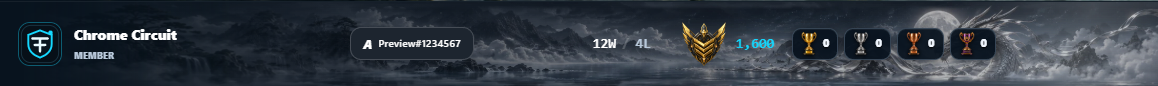
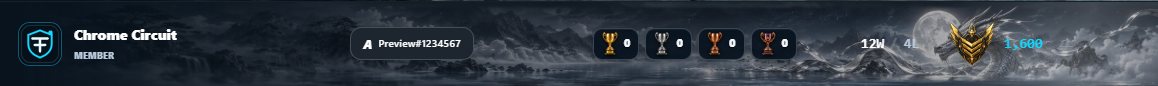
rwee
rwer

Changed region(s): [[0.4974, 0.2791, 0.9016, 0.7442]]

diff --git a/src/components/match/MatchTeamTable.jsx b/src/components/match/MatchTeamTable.jsx
@@ -136,7 +136,7 @@ export default function MatchTeamTable({ label, name, color = "cyan", teamIcon =
         {isComplete && name ? <div className="match-team-score min-w-28 shrink-0 rounded-xl border border-white/[0.08] bg-black/20 px-5 py-2.5 text-center"><p className="text-[8px] font-black uppercase tracking-[0.16em] text-vapor">Final score</p><p className={`mt-1 font-mono text-2xl font-black tabular-nums ${toneClass}`}>{finalScore ?? 0}</p></div> : null}
       </header>
 
-      {community ? players.length ? <CommunityMatchRoster players={players} color={color} voiceStates={voiceStates} waitingRoomUrl={waitingRoomUrl} /> : <div className="p-5 text-xs text-vapor">Waiting for the previous match to finish.</div> : <><div className={`match-roster-head match-roster-columns hidden gap-3 border-y border-white/[0.07] bg-[var(--arena-inset)] px-5 py-3 ${compact ? "text-[10px] font-bold tracking-[0.1em]" : "text-[8px] font-black tracking-[0.18em]"} uppercase text-vapor`}><span>{compact ? "Player" : "User"}</span><span>{ladder ? "Activision Name" : "Gamertag"}</span>{ladder && <><span>Rank</span><span>Discord Voice</span></>}<span>Record</span><span>{challenge ? "Challenge XP" : freeEights ? "8s ELO" : xpMatch ? "TP RANK" : ranked ? "Ranked ELO" : "Earnings"}</span>{!ladder && <span>Trophies</span>}<span>Socials</span></div>
+      {community ? players.length ? <CommunityMatchRoster players={players} color={color} voiceStates={voiceStates} waitingRoomUrl={waitingRoomUrl} /> : <div className="p-5 text-xs text-vapor">Waiting for the previous match to finish.</div> : <><div className={`match-roster-head match-roster-columns hidden gap-3 border-y border-white/[0.07] bg-[var(--arena-inset)] px-5 py-3 ${compact ? "text-[10px] font-bold tracking-[0.1em]" : "text-[8px] font-black tracking-[0.18em]"} uppercase text-vapor`}><span>{compact ? "Player" : "User"}</span><span>{ladder ? "Activision Name" : "Gamertag"}</span>{ladder && <><span>Rank</span><span>Discord Voice</span></>}{!ladder && <span>Trophies</span>}<span>Record</span><span>{challenge ? "Challenge XP" : freeEights ? "8s ELO" : xpMatch ? "TP RANK" : ranked ? "Ranked ELO" : "Earnings"}</span><span>Socials</span></div>
       {players.length === 0 && !emptySlots ? <div className="flex min-h-28 items-center justify-center border-t border-white/[0.06] text-xs text-vapor">Roster unavailable</div> : (
         <div className="divide-y divide-white/[0.055]">
           {players.map((player, index) => {
@@ -166,9 +166,9 @@ export default function MatchTeamTable({ label, name, color = "cyan", teamIcon =
                 <div className={`min-w-0 ${compactWideField}`}><p className={fieldLabelClass}>{ladder ? "Activision Name" : "Gamertag"}</p><div className="inline-flex max-w-full rounded-lg border border-white/[0.18] bg-secondary px-3 py-2"><ActivisionIdLabel user={player} className="max-w-full" /></div></div>
                 {ladder && <div className="min-w-0"><p className={fieldLabelClass}>Rank</p>{challenge ? <ChallengeRankBadge xp={number(player.challenge_xp)} /> : <FreeEightsRankBadge loading={player.free_eights_rank_loading} elo={player.free_eights_elo} screenshotRank={player.screenshot_rank} />}</div>}
                 {ladder && <div className="min-w-0"><p className={fieldLabelClass}>Discord Voice</p><FreeEightsVoiceBadge status={voiceStatuses.get(userId)?.status} fresh={voiceStatuses.get(userId)?.fresh !== false} waitingRoomUrl={waitingRoomUrl} /></div>}
+                {!ladder && <div className={compactWideField}><p className={fieldLabelClass}>Trophies</p><TrophyCounts trophies={trophies} /></div>}
                 <div><p className={fieldLabelClass}>Record</p><p className="font-mono text-sm font-black"><span className="text-white">{record.wins}W</span><span className="mx-1.5 text-white/20">/</span><span className="text-vapor">{record.losses}L</span></p></div>
                 {challenge ? <div><p className={fieldLabelClass}>Challenge XP</p><p className="font-mono text-sm font-black text-cyan">{number(player.challenge_xp).toLocaleString()}</p>{isComplete && player.challenge_xp_delta != null && <p className={`mt-1 text-[9px] font-bold ${player.challenge_xp_delta > 0 ? "text-green" : player.challenge_xp_delta < 0 ? "text-red-400" : "text-vapor"}`}>{player.challenge_xp_delta > 0 ? "+" : ""}{player.challenge_xp_delta} this match</p>}</div> : freeEights ? <div><p className={fieldLabelClass}>8s ELO</p><p className="font-mono text-sm font-black text-cyan">{normalizeFreeEightsElo(player.free_eights_elo).toLocaleString()}</p>{isComplete && eloChanges?.[userId] && <p className={`mt-1 text-[9px] font-bold ${eloChanges[userId].delta > 0 ? "text-green" : eloChanges[userId].delta < 0 ? "text-red-400" : "text-vapor"}`}>{eloChanges[userId].delta > 0 ? "+" : ""}{eloChanges[userId].delta} this match</p>}</div> : xpMatch ? <XPPlayerRank player={player} labelClass={fieldLabelClass} /> : ranked ? <div><p className={fieldLabelClass}>Ranked ELO</p><div className="flex items-center gap-2"><RankBadge elo={number(player.elo)} size="sm" showLabel={false} animated={false} /><span className="font-mono text-sm font-black text-cyan">{number(player.elo).toLocaleString()}</span></div></div> : <div><p className={fieldLabelClass}>Earnings</p><p className="font-mono text-sm font-black text-green">{money(earningsFor(player))}</p></div>}
-                {!ladder && <div className={compactWideField}><p className={fieldLabelClass}>Trophies</p><TrophyCounts trophies={trophies} /></div>}
                 <div><p className={fieldLabelClass}>Socials</p><PlayerSocials player={player} /></div>
               </article>
             );

diff --git a/src/styles/match-roster.css b/src/styles/match-roster.css
@@ -7,14 +7,14 @@
   .match-player-identity { grid-column: span 3; }
 }
 @container (min-width: 840px) {
-  [data-roster-layout="compact"] .match-roster-columns { grid-template-columns: minmax(160px, 1.1fr) minmax(150px, 1fr) 75px 80px 210px 60px; }
+  [data-roster-layout="compact"] .match-roster-columns { grid-template-columns: minmax(160px, 1.1fr) minmax(150px, 1fr) 210px 75px 80px 60px; }
   [data-roster-layout="compact"] .match-roster-head { display: grid; }
   [data-roster-layout="compact"] :is(.match-player-identity, .match-player-wide-field) { grid-column: auto; }
   [data-roster-layout="compact"] .match-player-field-label { display: none; }
   [data-roster-layout="compact"] .match-player-card { align-items: center; column-gap: 12px; }
 }
 @container (min-width: 960px) {
-  [data-roster-layout="standard"] .match-roster-columns { grid-template-columns: minmax(180px, 1.25fr) minmax(150px, .9fr) 75px 100px minmax(180px, 1fr) 80px; }
+  [data-roster-layout="standard"] .match-roster-columns { grid-template-columns: minmax(180px, 1.25fr) minmax(150px, .9fr) minmax(210px, 1fr) 75px 100px 80px; }
   [data-roster-layout="standard"] .match-roster-head { display: grid; }
   [data-roster-layout="standard"] .match-player-identity { grid-column: auto; }
   [data-roster-layout="standard"] .match-player-field-label { display: none; }
